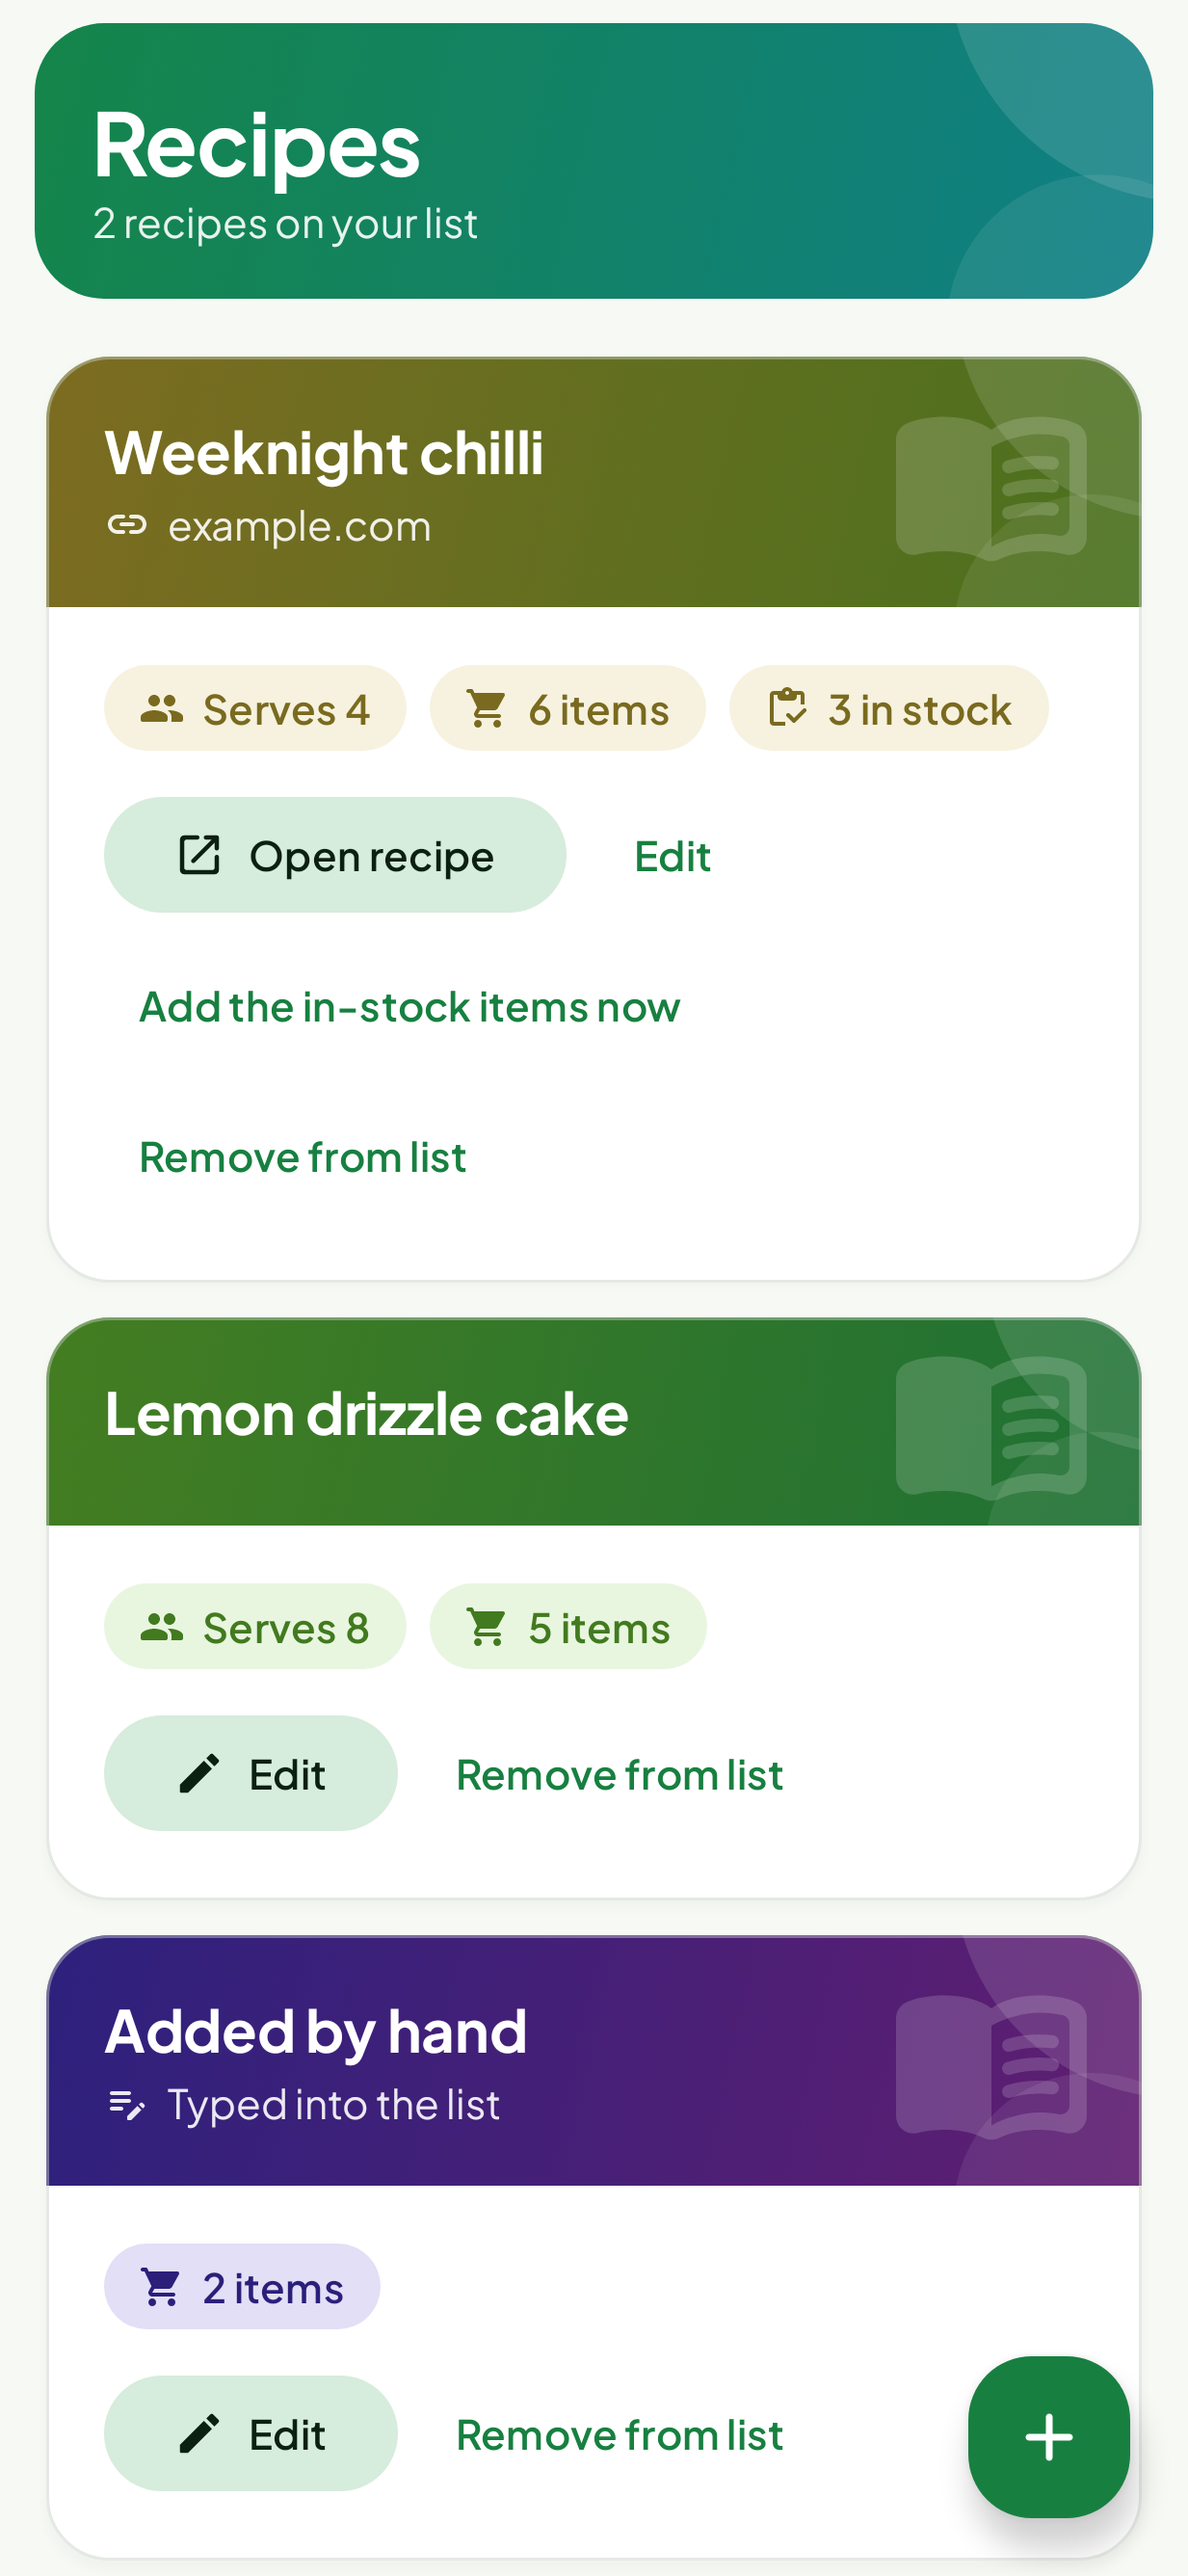
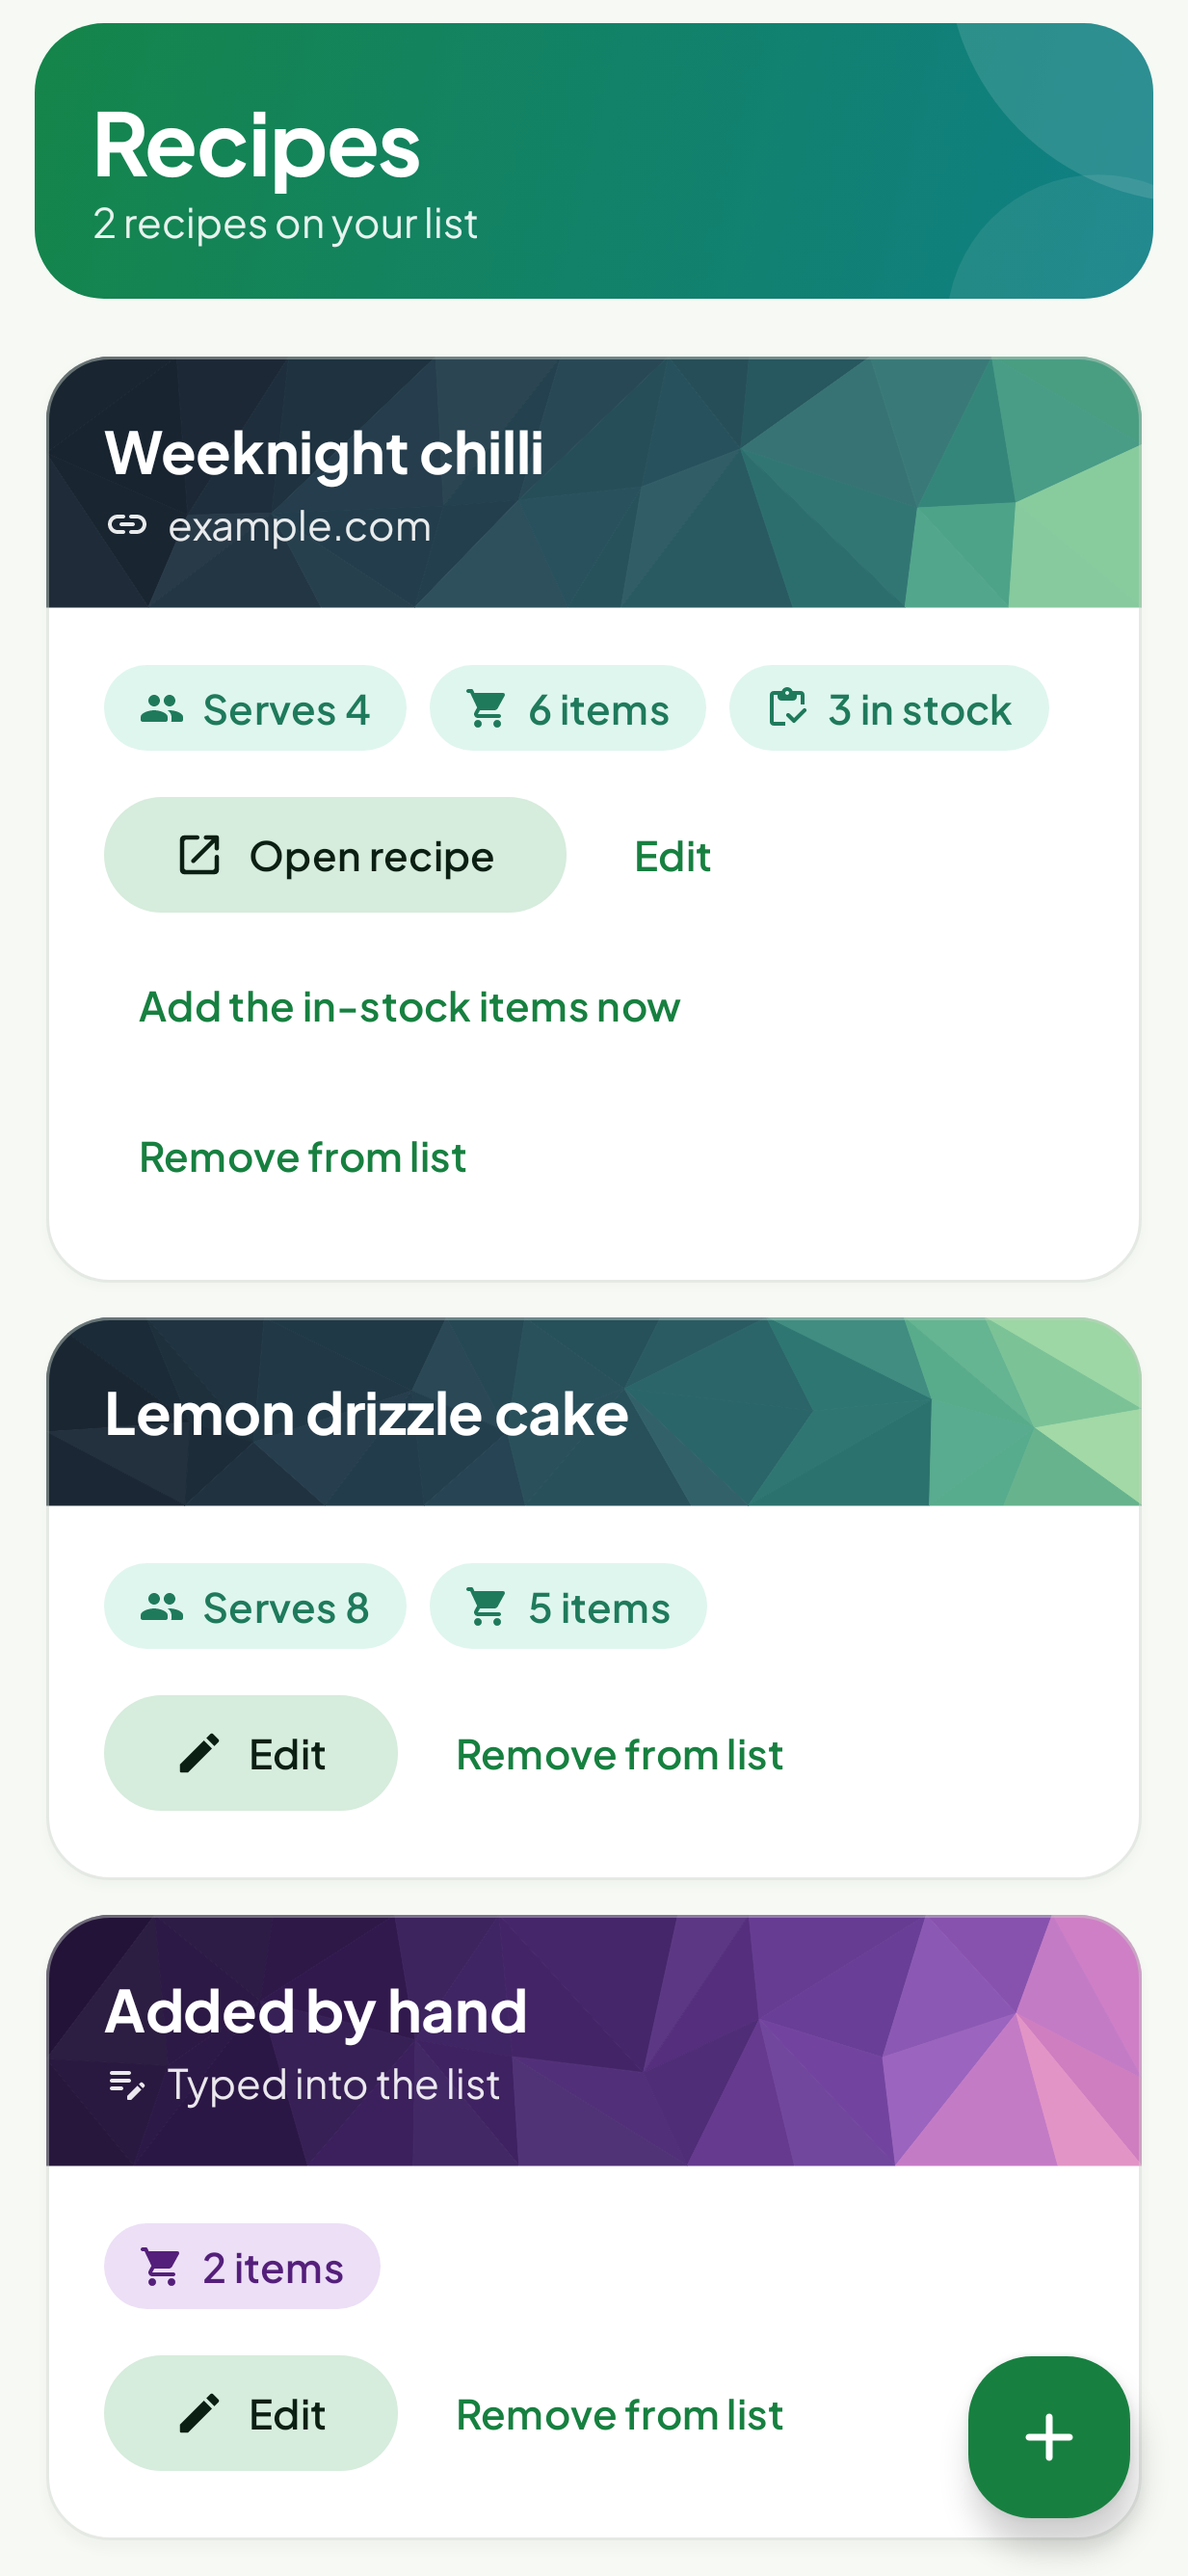
[feature] Low-poly recipe headers (#33)
* [feature] Low-poly recipe headers

Each recipe header is a seeded low-poly mosaic (deep teal to orange, after
docs/design/recipe-header.jpg): facet positions, cell splits, tilt and reach
vary per recipe title; the left side stays dark under the title.

Claude-Session: https://claude.ai/code/session_016z2Qp5Lw5mkgJm6Jzuit5a

* [feature] Recipe headers: drop the book watermark, eight palettes

Each recipe now picks one of eight low-poly palettes by its title (the style
guide's teal-to-orange plus indigo, forest, navy, plum, burgundy, slate,
aubergine); its chips take the palette's hue. The faint book icon is gone.

Claude-Session: https://claude.ai/code/session_016z2Qp5Lw5mkgJm6Jzuit5a

---------

diff --git a/android/app/src/main/java/com/robert4lyf/hypershop/ui/theme/LowPoly.kt b/android/app/src/main/java/com/robert4lyf/hypershop/ui/theme/LowPoly.kt
@@ -1,0 +1,132 @@
+package com.robert4lyf.hypershop.ui.theme
+
+import androidx.compose.ui.Modifier
+import androidx.compose.ui.draw.drawWithCache
+import androidx.compose.ui.geometry.Offset
+import androidx.compose.ui.graphics.Color
+import androidx.compose.ui.graphics.Path
+import androidx.compose.ui.graphics.lerp
+import androidx.compose.ui.unit.dp
+import kotlin.math.ceil
+import kotlin.math.cos
+import kotlin.math.sin
+import kotlin.random.Random
+
+/**
+ * A recipe header's background: a low-poly mosaic in the manner of the style
+ * guide (docs/design/recipe-header.jpg), in one of several palettes.
+ *
+ * Every recipe gets its own, seeded by [seed] (its title) so it never changes:
+ * the palette, where the facets fall, which way each cell is split, a slight tilt of the
+ * colour run, how far the warm end reaches, and a little light and shade per
+ * facet. The left side, under the title, always stays in the dark end so the
+ * white text keeps its contrast; the bright end only reaches the far right.
+ */
+fun Modifier.lowPoly(seed: String): Modifier =
+    drawWithCache {
+        val rnd = Random(seed.hashCode())
+        val stops = lowPolyPalette(seed).stops
+        val cell = 44.dp.toPx()
+        val cols = ceil(size.width / cell).toInt().coerceAtLeast(2)
+        val rows = ceil(size.height / cell).toInt().coerceAtLeast(2)
+        val dx = size.width / cols
+        val dy = size.height / rows
+        // Grid points, the inner ones nudged up to a third of a cell; the edges stay
+        // on the edges so the mosaic fills the box.
+        val pts =
+            Array(rows + 1) { r ->
+                Array(cols + 1) { c ->
+                    val jx = if (c in 1 until cols) (rnd.nextFloat() - 0.5f) * dx * 0.66f else 0f
+                    val jy = if (r in 1 until rows) (rnd.nextFloat() - 0.5f) * dy * 0.66f else 0f
+                    Offset(c * dx + jx, r * dy + jy)
+                }
+            }
+        // The colour run: mostly left to right, tilted a little either way, and
+        // starting a little further into the teals on some recipes than others.
+        val tilt = (rnd.nextFloat() - 0.5f) * 0.7f
+        val dirX = cos(tilt)
+        val dirY = sin(tilt)
+        val reach = 0.10f * rnd.nextFloat()
+        val facets = ArrayList<Pair<Path, Color>>(rows * cols * 2)
+        for (r in 0 until rows) {
+            for (c in 0 until cols) {
+                val a = pts[r][c]
+                val b = pts[r][c + 1]
+                val d = pts[r + 1][c]
+                val e = pts[r + 1][c + 1]
+                val tris = if (rnd.nextBoolean()) listOf(listOf(a, b, e), listOf(a, e, d)) else listOf(listOf(a, b, d), listOf(b, e, d))
+                for (t in tris) {
+                    val cx = (t[0].x + t[1].x + t[2].x) / 3f / size.width
+                    val cy = (t[0].y + t[1].y + t[2].y) / 3f / size.height
+                    val along = (cx * dirX + (cy - 0.5f) * dirY * 0.6f - reach + (rnd.nextFloat() - 0.5f) * 0.06f).coerceIn(0f, 1f)
+                    val shade = (rnd.nextFloat() - 0.5f) * 0.10f
+                    val base = sample(stops, along)
+                    val colour = if (shade >= 0) lerp(base, Color.White, shade) else lerp(base, Color.Black, -shade)
+                    val path =
+                        Path().apply {
+                            moveTo(t[0].x, t[0].y)
+                            lineTo(t[1].x, t[1].y)
+                            lineTo(t[2].x, t[2].y)
+                            close()
+                        }
+                    facets += path to colour
+                }
+            }
+        }
+        onDrawBehind {
+            for ((path, colour) in facets) {
+                drawPath(path, colour)
+                // A hairline in the facet's own colour hides the seams anti-aliasing leaves.
+                drawPath(path, colour, style = androidx.compose.ui.graphics.drawscope.Stroke(width = 1f))
+            }
+        }
+    }
+
+/** One header palette: dark at 0 (under the title), bright at 1, and [hue] for the recipe's chips. */
+internal class LowPolyPalette(
+    val hue: Float,
+    val stops: List<Pair<Float, Color>>,
+)
+
+private fun palette(
+    hue: Float,
+    vararg colours: Long,
+): LowPolyPalette {
+    // Dark half kept long so white text on the left keeps its contrast.
+    val at = floatArrayOf(0.00f, 0.30f, 0.55f, 0.70f, 0.80f, 0.89f, 1.00f)
+    return LowPolyPalette(hue, colours.mapIndexed { i, c -> at[i] to Color(c) })
+}
+
+/** All in the style guide's manner: a deep base running into a warm or bright end. */
+private val PALETTES =
+    listOf(
+        // The style guide: deep teal, sage, gold, orange.
+        palette(184f, 0xFF0D3140, 0xFF15596A, 0xFF1F7E88, 0xFF3C9293, 0xFF8DAE7A, 0xFFE6B84C, 0xFFEE8540),
+        // Indigo into magenta and peach.
+        palette(300f, 0xFF1B1840, 0xFF2E2A6B, 0xFF4B3A8F, 0xFF7A4597, 0xFFB5528E, 0xFFE57A78, 0xFFF4A96A),
+        // Forest into lime and yellow.
+        palette(110f, 0xFF10301F, 0xFF1A5232, 0xFF2A7443, 0xFF4A8C45, 0xFF8DB24A, 0xFFD3CF4E, 0xFFF2D35A),
+        // Navy into sky and coral.
+        palette(210f, 0xFF0E2140, 0xFF173B6B, 0xFF225C92, 0xFF3D7FB0, 0xFF7FA9C4, 0xFFF0A08A, 0xFFF0715E),
+        // Plum into rose and gold.
+        palette(330f, 0xFF2E1230, 0xFF4E1D4C, 0xFF73305F, 0xFF994466, 0xFFC86A6A, 0xFFE8A35A, 0xFFF2C94C),
+        // Burgundy into red and amber.
+        palette(12f, 0xFF35111A, 0xFF5A1A24, 0xFF84262C, 0xFFA83A2E, 0xFFD0602F, 0xFFEB9338, 0xFFF5BE4A),
+        // Slate into teal and mint.
+        palette(160f, 0xFF1A2633, 0xFF24404F, 0xFF2B6068, 0xFF2F8078, 0xFF4FA88A, 0xFF8FD1A0, 0xFFD5EEA8),
+        // Aubergine into violet and pink.
+        palette(275f, 0xFF231338, 0xFF3A1F5C, 0xFF56307F, 0xFF7243A0, 0xFF9B5FBF, 0xFFD27FC6, 0xFFF4A3C0),
+    )
+
+/** The palette for a recipe, picked by its title so it never changes. */
+internal fun lowPolyPalette(seed: String): LowPolyPalette = PALETTES[Math.floorMod(seed.hashCode() * 31 + 7, PALETTES.size)]
+
+private fun sample(
+    stops: List<Pair<Float, Color>>,
+    t: Float,
+): Color {
+    val i = stops.indexOfLast { it.first <= t }.coerceIn(0, stops.size - 2)
+    val (p0, c0) = stops[i]
+    val (p1, c1) = stops[i + 1]
+    return lerp(c0, c1, ((t - p0) / (p1 - p0)).coerceIn(0f, 1f))
+}

diff --git a/android/app/src/main/java/com/robert4lyf/hypershop/ui/recipes/RecipesRoute.kt b/android/app/src/main/java/com/robert4lyf/hypershop/ui/recipes/RecipesRoute.kt
@@ -86,7 +86,7 @@ import com.robert4lyf.hypershop.ui.list.show
 import com.robert4lyf.hypershop.ui.theme.Brand
 import com.robert4lyf.hypershop.ui.theme.LocalDarkTheme
 import com.robert4lyf.hypershop.ui.theme.card
-import com.robert4lyf.hypershop.ui.theme.heroGlow
+import com.robert4lyf.hypershop.ui.theme.lowPoly
 import com.robert4lyf.hypershop.ui.util.factoryFor
 
 @Composable
@@ -459,14 +459,8 @@ private fun UseCard(
         val hue = Brand.recipeHue(use.title)
         Column {
             // The recipe's own colour band: the same hue as its review screen.
-            Box(Modifier.fillMaxWidth().background(Brand.recipeBrush(use.title)).heroGlow()) {
-                Icon(
-                    Icons.AutoMirrored.Rounded.MenuBook,
-                    contentDescription = null,
-                    tint = Color.White.copy(alpha = 0.16f),
-                    modifier = Modifier.align(Alignment.CenterEnd).padding(end = 16.dp).size(72.dp),
-                )
-                Column(Modifier.padding(20.dp).padding(end = 56.dp), verticalArrangement = Arrangement.spacedBy(4.dp)) {
+            Box(Modifier.fillMaxWidth().lowPoly(use.title)) {
+                Column(Modifier.padding(20.dp), verticalArrangement = Arrangement.spacedBy(4.dp)) {
                     Text(use.title, style = MaterialTheme.typography.titleLarge, color = Brand.OnHero)
                     val site = url?.let { siteName(it) }
                     val book = use.bookRef

diff --git a/android/app/src/main/java/com/robert4lyf/hypershop/ui/theme/Brand.kt b/android/app/src/main/java/com/robert4lyf/hypershop/ui/theme/Brand.kt
@@ -11,7 +11,7 @@ import androidx.compose.ui.graphics.Color
 /**
  * The brand's colour beyond Material's roles (docs/design/ui-overhaul.md,
  * "Colour pass"): a basil-to-lagoon gradient for heroes, citrus for highlights
- * on it, and a hue per recipe. White text clears 4.5:1 on every gradient here.
+ * on it, and a low-poly header per recipe ([lowPoly]). White text clears 4.5:1 on every gradient here.
  */
 object Brand {
     val Citrus = Color(0xFFFFE08A)
@@ -23,13 +23,8 @@ object Brand {
     /** Warm, for "ready to review": a call to act, distinct from the basil header. White text clears 4.5:1 on both ends. */
     val WarmCall = Brush.linearGradient(listOf(Color(0xFFC4451F), Color(0xFFBD3A64)))
 
-    /** A recipe's own two-tone gradient, picked from its title so it stays the same. */
-    fun recipeBrush(seed: String): Brush {
-        val hue = recipeHue(seed)
-        return Brush.linearGradient(listOf(Color.hsl(hue, 0.58f, 0.31f), Color.hsl((hue + 40f) % 360f, 0.58f, 0.28f)))
-    }
-
-    fun recipeHue(seed: String): Float = ((seed.hashCode() % 360 + 360) % 360).toFloat()
+    /** A recipe's hue for its chips and icons, from its header's palette and picked by its title, so it stays the same. */
+    fun recipeHue(seed: String): Float = lowPolyPalette(seed).hue
 
     /** A soft tint of [hue] for chips on a card. */
     fun tint(
